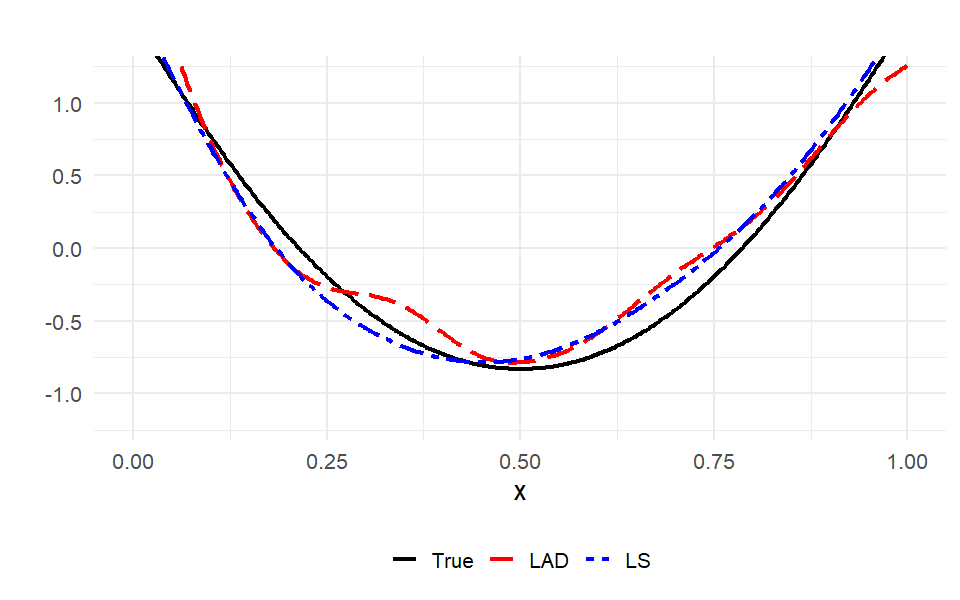
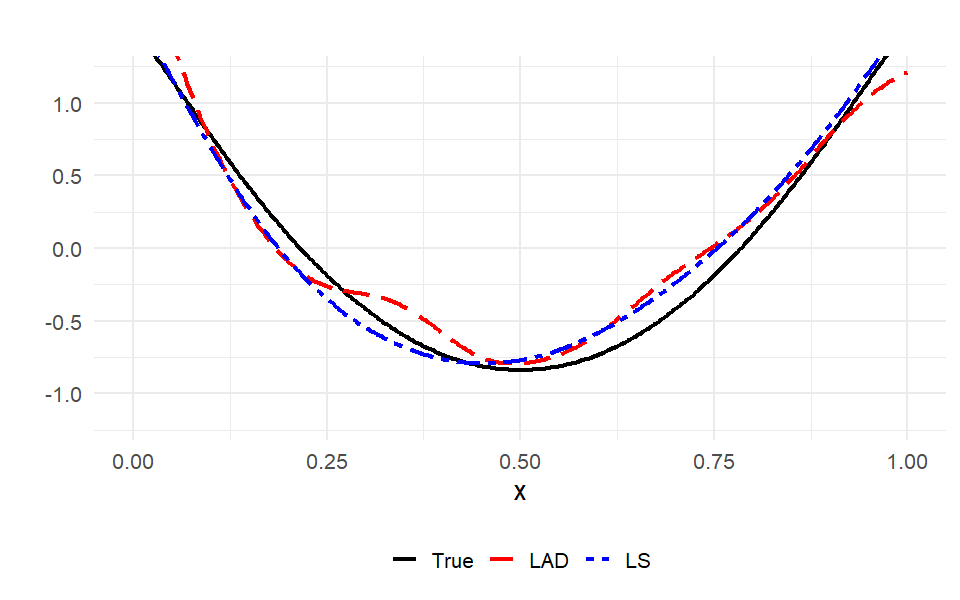
Updates

diff --git a/README.md b/README.md
@@ -67,7 +67,7 @@ set.seed(11)
 
 n    <- 300 
 beta <- 0.75 # one of c(0.5, 0.75, 1.0) 
-p <- 0.6
+p <- 2/3
 
 K <- 50
 k <- 1:K
@@ -178,7 +178,7 @@ predictors $\mathbf{x}_1, \ldots, \mathbf{x}_n \subset [0,1]^2$. The
 data are generated according to
 
 $$y_i = \sum_{j=1}^{25} \sum_{k=1}^{25} (j k)^{-(2 \beta + 0.6)} \sin(2 \pi j  x_{i1}) \sin(2 \pi k x_{i2}) + \epsilon_i, \quad (i=1, \ldots, n),$$
-for $\beta = 0.75$ and $\epsilon_i$ iid Gaussian or $t_2$.
+for $\beta = 0.75$ and $\epsilon_i$ i.i.d. Gaussian or $t_2$.
 
 We compare the true regression surface with the least-squares (LS) and
 least-absolute-deviation (LAD) tensor RKHS estimates.
@@ -199,7 +199,7 @@ f0 <- function(X) {
   out <- 0
   for (j in 1:K) {
     for (k in 1:K) {
-      coef <- (j * k)^(-(2 * beta + 0.6))
+      coef <- (j * k)^(-(2 * beta + 2/3))
       out <- out + coef * sin(2*pi*j*X[,1]) * sin(2*pi*k*X[,2])
     }
   }
